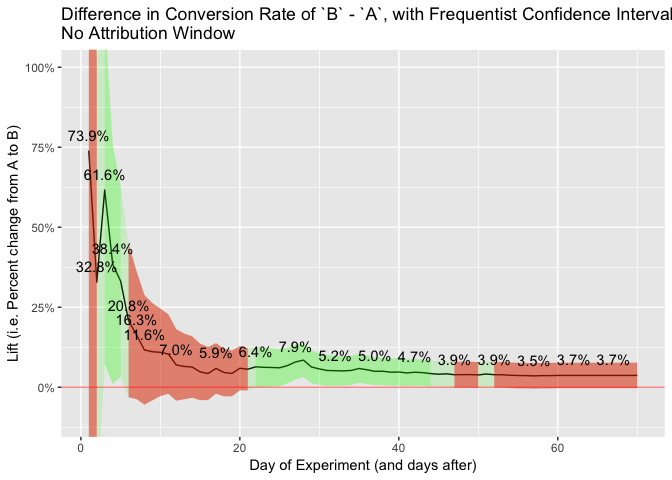
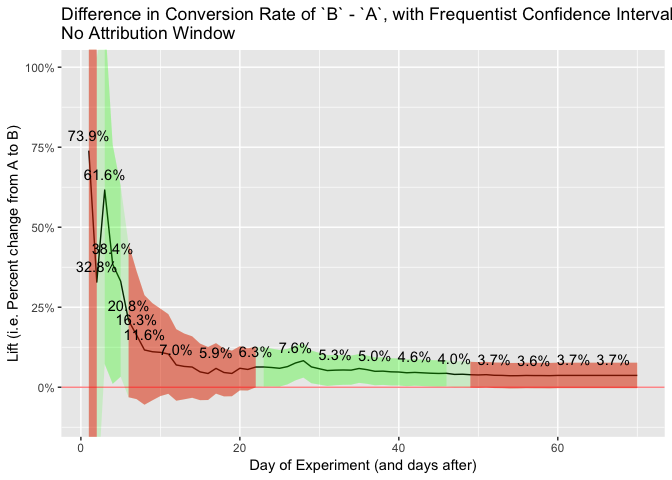
AWS

Changed region(s): [[0.3438, 0.6875, 0.5312, 0.8125], [0.625, 0.7188, 0.75, 0.8125], [0.5938, 0.7188, 0.625, 0.75]]

diff --git a/attribution-window-effects/attribution-window-simulation.md b/attribution-window-effects/attribution-window-simulation.md
@@ -1,3 +1,5 @@
+true
+
 What are the effects of diminishing lift from an A/B test and the use of attribution windows?
 =============================================================================================
 
@@ -306,6 +308,12 @@ Now, `B`'s conversion rate is only `10.7%` because we are only counting
 the people who converted within 7-days from when they entered they
 experiment. But, it is a `9.02%` increase over `A`'s conversion rate of
 `9.71%`.
+
+**The downside to using attribution-windows is that, because your
+calculated conversion rate is lower (and depending on the size of the
+window, it could be substantially lower), the sample size required to
+reach statistical significance increases, along with the amount of time
+required to run the test.**
 
 P-Values and Confidence Intervals, Over Time
 --------------------------------------------
